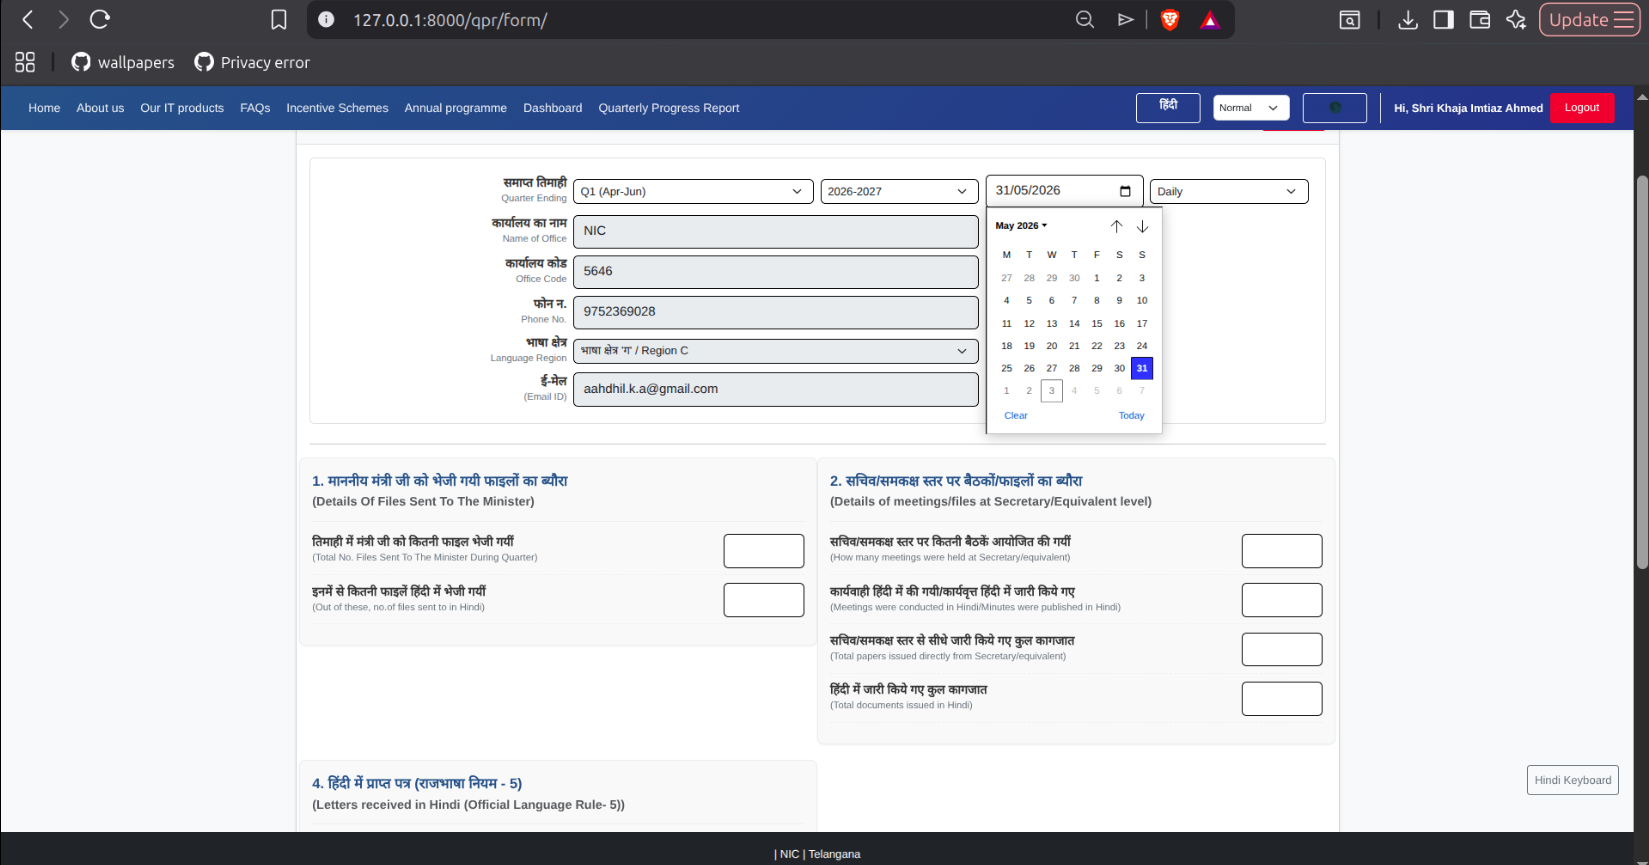
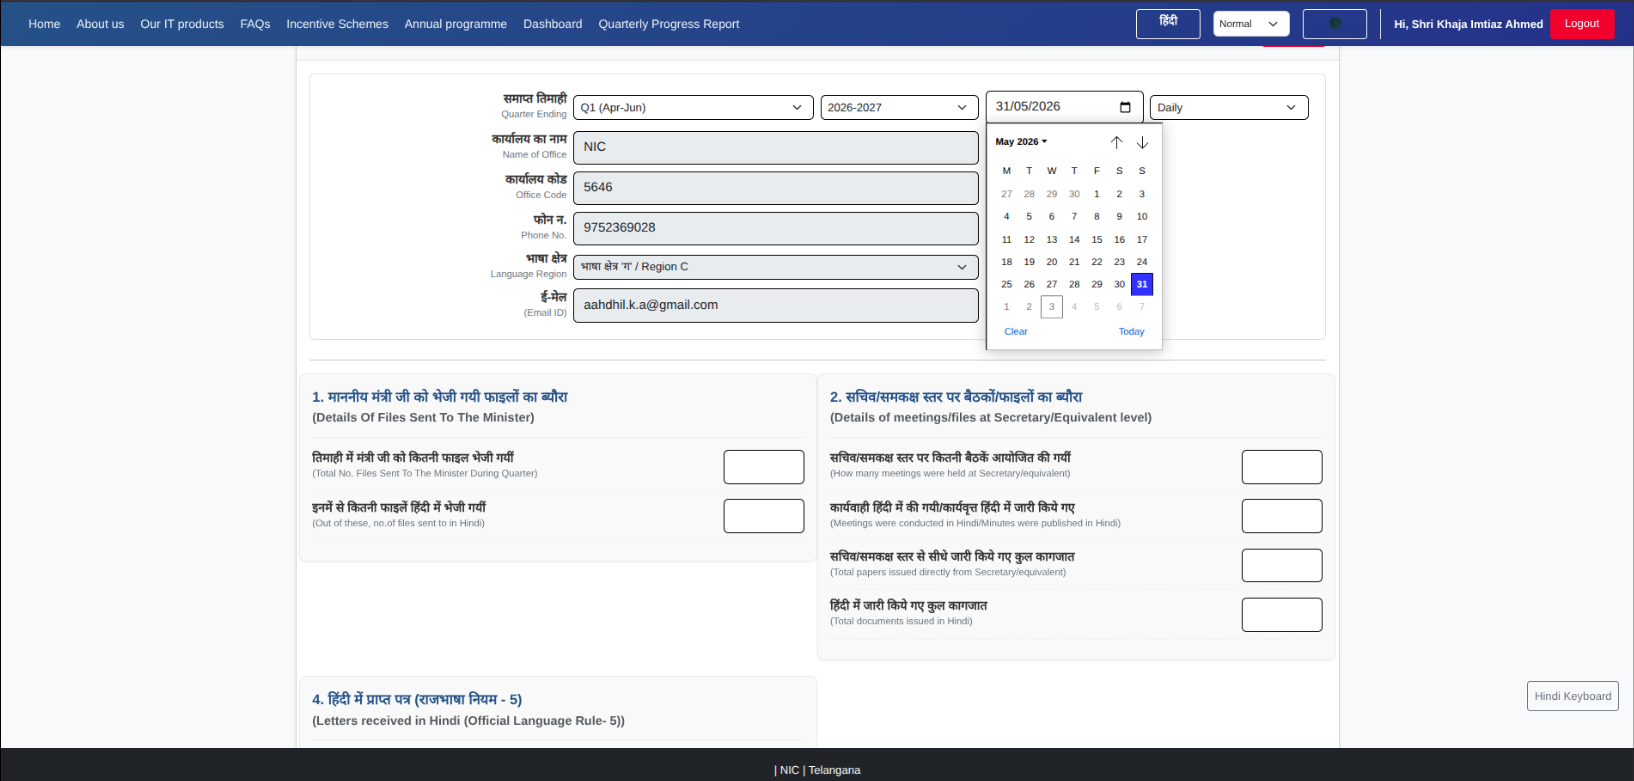
styling fix and qpr fix

diff --git a/templates/qpr/admin_employee_list.html b/templates/qpr/admin_employee_list.html
@@ -17,6 +17,29 @@
         margin-bottom: 20px;
     }
 
+    .filter-form {
+        display: grid;
+        grid-template-columns: minmax(0, 1fr) minmax(0, 1fr) auto;
+        gap: 1rem;
+        align-items: end;
+    }
+
+    .filter-actions {
+        display: flex;
+        gap: 0.5rem;
+        flex-wrap: nowrap;
+        align-items: center;
+    }
+
+    .filter-actions .btn {
+        white-space: nowrap;
+        min-height: 42px;
+    }
+
+    .filter-field {
+        min-width: 0;
+    }
+
     .hod-section {
         background: white;
         border-radius: 8px;
@@ -136,20 +159,20 @@
         </div>
 
         <div class="filter-section mb-4">
-            <form method="GET" class="row g-3">
-                <div class="col-md-2">
+            <form method="GET" class="filter-form">
+                <div class="filter-field">
                     <label for="employee_code" class="form-label">{{ "Emp Code"|t:current_lang }}:</label>
                     <input type="text" name="employee_code" id="employee_code" class="form-control"
                         placeholder="Search" value="{{ employee_code_filter }}">
                 </div>
 
-                <div class="col-md-2">
+                <div class="filter-field">
                     <label for="name" class="form-label">{{ "Name"|t:current_lang }}:</label>
                     <input type="text" name="name" id="name" class="form-control" placeholder="Search"
                         value="{{ name_filter }}">
                 </div>
 
-                <div class="col-md-4 d-flex align-items-end gap-2">
+                <div class="filter-actions">
                     <button type="submit" class="btn btn-custom">
                         <i class="fas fa-filter"></i> {{ "Filter"|t:current_lang }}
                     </button>

diff --git a/templates/manager_dashboard.html b/templates/manager_dashboard.html
@@ -41,16 +41,16 @@
             {% endif %}
             
             <div class="d-flex gap-2 flex-wrap">
-                <a href="{% url 'manager_report' %}" class="btn btn-primary" style="background-color: #0066cc;">
+                <a href="{% url 'manager_report' %}" class="btn btn-primary">
                     <i class="fas fa-chart-bar"></i> {{ "Manager Report"|t:current_lang }}
                 </a>
-                <a href="{% url 'manager_employee_master_list' %}" class="btn btn-outline-primary">
+                <a href="{% url 'manager_employee_master_list' %}" class="btn btn-primary">
                     <i class="fas fa-users-cog"></i> {{ "Manage Employees"|t:current_lang }}
                 </a>
-                <a href="{% url 'certificate_part2_list' %}" class="btn btn-info">
+                <a href="{% url 'certificate_part2_list' %}" class="btn btn-info text-white">
                     <i class="fas fa-certificate"></i> {{ "QPR-II"|t:current_lang }}
                 </a>
-                <a href="{% url 'manager_certificate_list' %}" class="btn btn-outline-info">
+                <a href="{% url 'manager_certificate_list' %}" class="btn btn-info text-white">
                     <i class="fas fa-award"></i> {{ "Certificate"|t:current_lang }}
                 </a>
                 <a href="{% url 'change_password' %}" class="btn btn-secondary">

diff --git a/templates/dashboard.html b/templates/dashboard.html
@@ -122,7 +122,7 @@
  <a href="{% url 'admin_events_dashboard' %}" class="btn btn-success text-white">
  <i class="fas fa-calendar-alt"></i> {{ "Events"|t:current_lang }}
  </a>
- <a href="{% url 'manager_employee_master_list' %}" class="btn btn-outline-primary">
+ <a href="{% url 'manager_employee_master_list' %}" class="btn btn-primary">
  <i class="fas fa-users-cog"></i> {{ "Manage Employees"|t:current_lang }}
  </a>
  <a href="{% url 'qpr_admin_create_hod' %}" class="btn text-white" style="background-color: #0d6efd;">

diff --git a/templates/master.html b/templates/master.html
@@ -104,7 +104,7 @@
                 </a>
 
                 <select id="fontSelector" class="form-select form-select-sm w-auto">
-
+                    <option value="normal">{{ "Normal"|t:current_lang }}</option>
                     <option value="medium">{{ "Medium"|t:current_lang }}</option>
                     <option value="large">{{ "Large"|t:current_lang }}</option>
                 </select>

diff --git a/templates/qpr/report_detail.html b/templates/qpr/report_detail.html
@@ -134,6 +134,8 @@
     <script>
         // Preloaded aggregated QPR for division mode
         window.INITIAL_QPR = JSON.parse(document.getElementById('initial-qpr-data').textContent);
+        if(typeof window.INITIAL_QPR == 'string'){
+            window.INITIAL_QPR = JSON.parse(window.INITIAL_QPR);} 
         window.IS_DIVISION = true;
     </script>
     {% else %}

diff --git a/templates/registration/signup.html b/templates/registration/signup.html
@@ -22,8 +22,8 @@
     font-weight: 500;
 }
 .form-check-input {
-    width: 1.6em !important;
-    height: 1.6em !important;
+    width: 1.6rem !important;
+    height: 1.6rem !important;
     margin-top: 0.1em;
     border: 2px solid #0d6efd !important;
     cursor: pointer;
